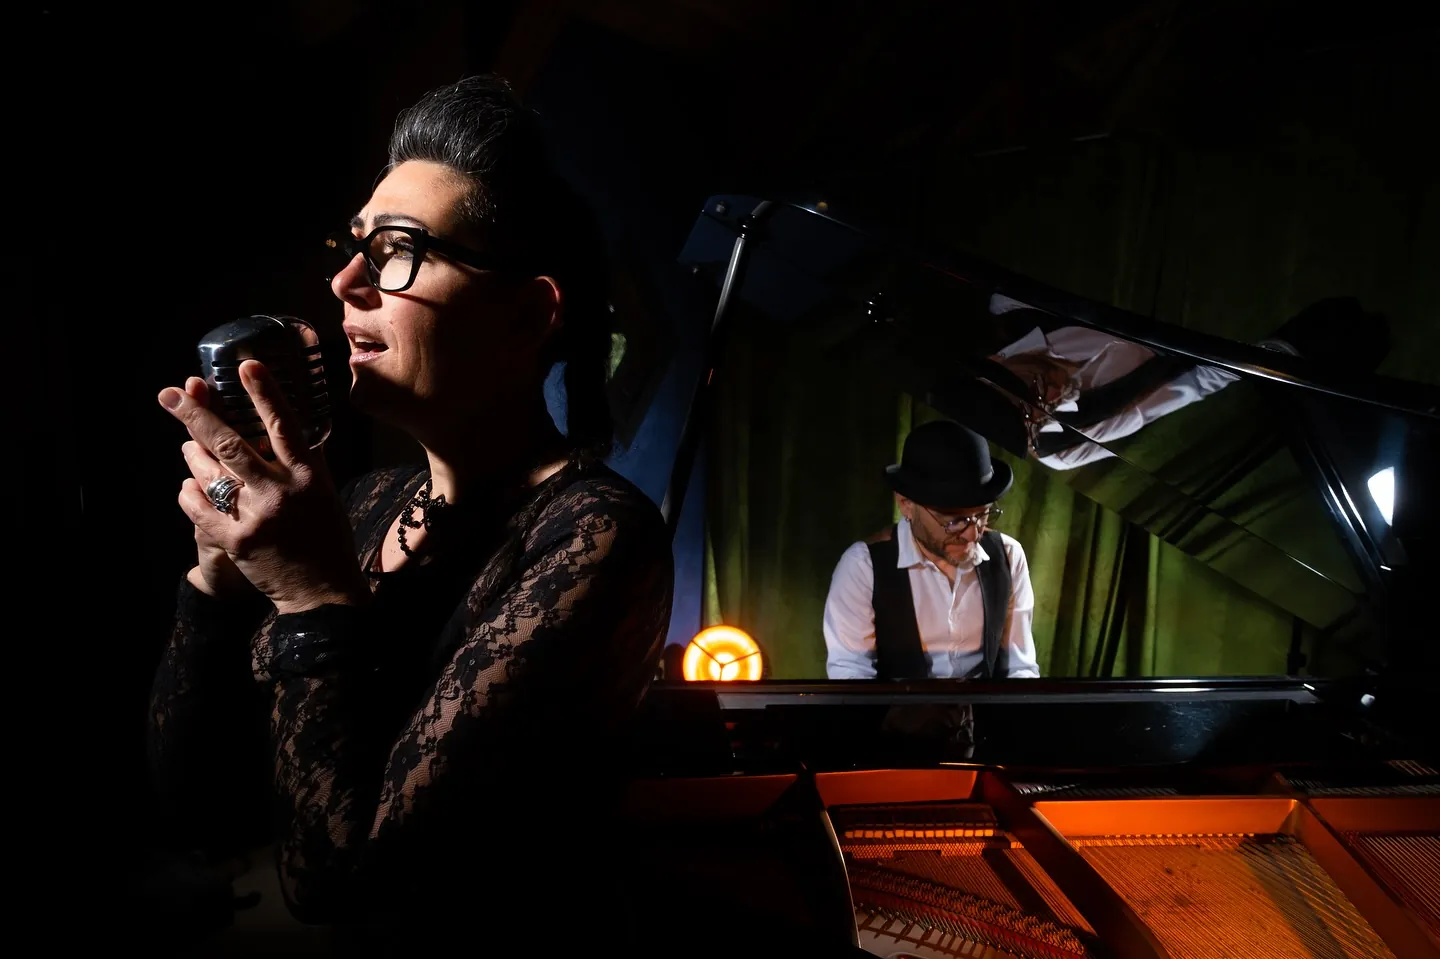
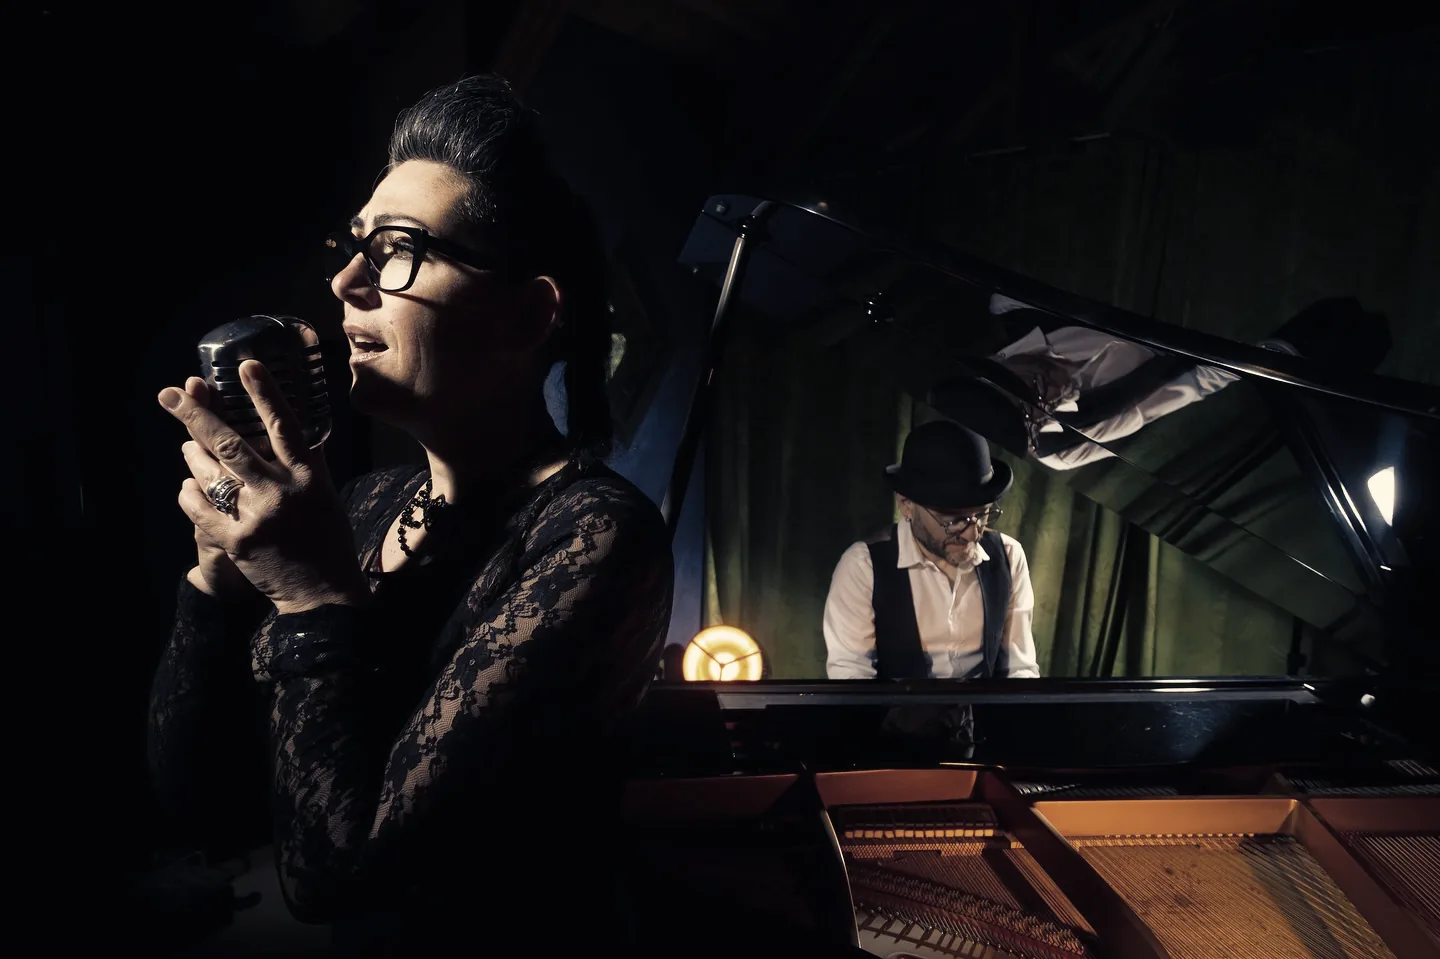
Étalonnage unifié des photos : ombres bleu nuit, lumières or
Claude-Session: https://claude.ai/code/session_01WtbxhUNH8N8yMHSShPVKuQ

diff --git a/buble-sinatra/crooners-photos.html b/buble-sinatra/crooners-photos.html
@@ -201,8 +201,8 @@ h2 em{font-family:var(--script);font-style:normal;color:var(--gold);font-size:1.
 .duo2 h2{font-family:var(--serif);font-weight:500;font-size:clamp(2.2rem,5vw,3.8rem);line-height:1.04;margin:.6rem 0 1rem}
 .duo2 h2 em{font-family:var(--script);font-style:normal;color:var(--gold);font-weight:400;font-size:1.12em}
 .duo2 p{color:#c9c2b2;font-size:1.1rem;max-width:30rem}
-.hero-photo{position:absolute;inset:auto;left:34%;top:0;width:66%;height:100%;object-fit:cover;object-position:35% 40%;z-index:-3;filter:contrast(1.08) saturate(1.1);-webkit-mask-image:linear-gradient(90deg,transparent 0,#000 30%);mask-image:linear-gradient(90deg,transparent 0,#000 30%);animation:kb 26s ease-in-out infinite alternate,hit 2.6s ease-out 1}
-@keyframes hit{0%,42%{filter:brightness(.08) contrast(1.08) saturate(1.1)}58%{filter:brightness(1.7) contrast(1.08) saturate(1.1)}100%{filter:brightness(1) contrast(1.08) saturate(1.1)}}
+.hero-photo{position:absolute;inset:auto;left:34%;top:0;width:66%;height:100%;object-fit:cover;object-position:35% 40%;z-index:-3;-webkit-mask-image:linear-gradient(90deg,transparent 0,#000 30%);mask-image:linear-gradient(90deg,transparent 0,#000 30%);animation:kb 26s ease-in-out infinite alternate,hit 2.6s ease-out 1}
+@keyframes hit{0%,42%{filter:brightness(.08)}58%{filter:brightness(1.6)}100%{filter:brightness(1)}}
 .hero .shade{background:linear-gradient(transparent 70%,var(--ink)),linear-gradient(90deg,var(--ink) 0,rgba(5,7,11,.35) 40%,transparent 60%)}
 header.hero{display:flex!important;align-items:center;place-items:unset!important;padding:110px 0 90px!important;text-align:left!important}
 .copy{position:relative;z-index:3;max-width:min(40vw,540px);margin-left:6vw}
@@ -221,7 +221,7 @@ header.hero{display:flex!important;align-items:center;place-items:unset!importan
   .copy h1{font-size:clamp(2.3rem,11vw,4rem)!important}
 }
 .spot-m{position:absolute;inset:0;z-index:0;pointer-events:none;mix-blend-mode:screen;background:radial-gradient(circle 320px at var(--mx,72%) var(--my,35%),rgba(255,236,196,.28),transparent 70%)}
-.banner>img{filter:contrast(1.08) saturate(1.15);transform:scale(1.15)}
+.banner>img{transform:scale(1.15)}
 .split{display:grid;grid-template-columns:minmax(0,1.15fr) minmax(0,.85fr);gap:clamp(1.6rem,4vw,3.4rem);align-items:center}
 @media(max-width:820px){.split{grid-template-columns:1fr}}
 .split .pl img{aspect-ratio:4/3}
@@ -233,7 +233,7 @@ header.hero{display:flex!important;align-items:center;place-items:unset!importan
 .car-grid{display:grid;grid-template-columns:minmax(0,.8fr) minmax(0,1.2fr);gap:clamp(2rem,6vw,5rem);align-items:center}
 @media(max-width:820px){.car-grid{grid-template-columns:1fr}}
 .car-grid figure{position:relative;max-width:420px;margin:auto;width:100%}
-.car-grid img{display:block;width:100%;aspect-ratio:3/4;object-fit:cover;object-position:50% 40%;border:1px solid rgba(217,180,95,.5);box-shadow:0 0 70px rgba(190,60,220,.25),0 30px 70px rgba(0,0,0,.6);filter:contrast(1.06) saturate(1.1)}
+.car-grid img{display:block;width:100%;aspect-ratio:3/4;object-fit:cover;object-position:50% 40%;border:1px solid rgba(217,180,95,.5);box-shadow:0 0 70px rgba(190,60,220,.25),0 30px 70px rgba(0,0,0,.6);}
 .opt{position:absolute;top:18px;left:-12px;background:var(--gold);color:var(--ink);font-size:.7rem;font-weight:500;letter-spacing:.3em;text-transform:uppercase;padding:.5rem 1.1rem;box-shadow:0 6px 20px rgba(0,0,0,.5)}
 .car-grid h2{font-family:var(--serif);font-weight:500;font-size:clamp(2.2rem,5vw,3.8rem);line-height:1.04;margin:.6rem 0 1rem}
 .car-grid h2 em{font-family:var(--script);font-style:normal;color:var(--gold);font-weight:400;font-size:1.12em}
@@ -242,7 +242,7 @@ header.hero{display:flex!important;align-items:center;place-items:unset!importan
 .chips2 li{border:1px solid rgba(217,180,95,.45);padding:.35rem .95rem;font-size:.74rem;letter-spacing:.18em;text-transform:uppercase;color:var(--gold2)}
 .cta2{display:inline-block;border:1px solid var(--gold);color:var(--gold);padding:.9rem 1.8rem;font-size:.76rem;letter-spacing:.26em;text-transform:uppercase;transition:background .4s,color .4s}
 .cta2:hover{background:var(--gold);color:var(--ink)}
-.duo2 img{filter:grayscale(.3) contrast(1.1) brightness(.8) sepia(.22) saturate(.9)}
+
 .sign-wrap{padding:3.5rem 5vw 1rem;text-align:center}
 .sign{position:relative;display:inline-block;border:3px solid var(--gold);padding:1.6rem clamp(1.6rem,6vw,4.5rem);background:linear-gradient(#17090c,#0b0709);box-shadow:0 0 50px rgba(217,180,95,.18)}
 .sign .s1{font-size:.72rem;letter-spacing:.42em;text-transform:uppercase;color:var(--gold)}
